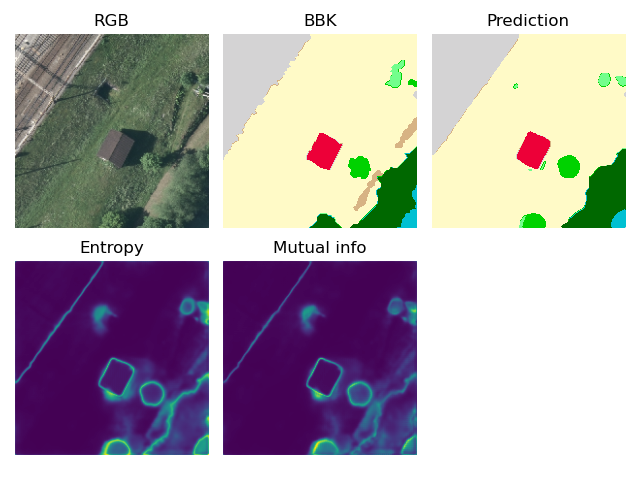
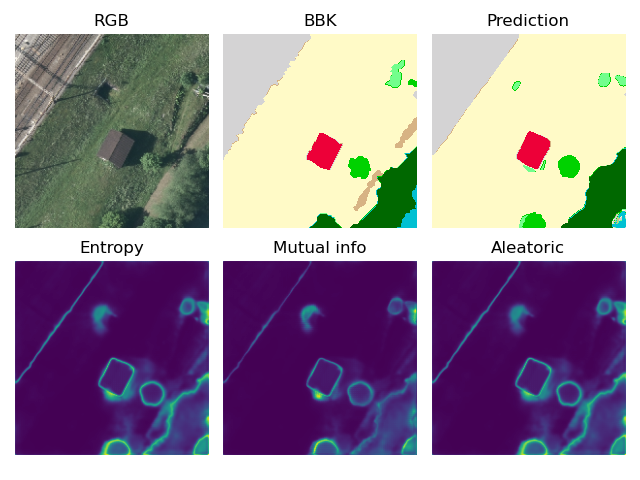
add examples images bayseian and improve scoe

diff --git a/test_bayesian.py b/test_bayesian.py
@@ -19,7 +19,7 @@ from sklearn.metrics import confusion_matrix
 def evaluate_uncertainty(net, dataloader, device, nb_forward):
     net.eval()
     enable_dropout(net)
-    num_val_batches = len(dataloader)*nb_forward
+    num_val_batches = len(dataloader)
 
     #Initialization
     dice_score = 0
@@ -39,7 +39,8 @@ def evaluate_uncertainty(net, dataloader, device, nb_forward):
         image, mask_true = batch[0], batch[1]
         # move images and labels to correct device and type
         image = image.to(device=device, dtype=torch.float32)
-        mask_true = mask_true.to(device=device, dtype=torch.float32)
+        mask_true = mask_true.to(#device=device,
+                                 dtype=torch.float32)
 
         # to store n_forward predictions on the same batch
         dropout_predictions = torch.empty((0,mask_true.size(0),mask_true.size(1),mask_true.size(2),mask_true.size(3)))
@@ -55,30 +56,8 @@ def evaluate_uncertainty(net, dataloader, device, nb_forward):
                 # compute confidence matrix
                 cf_matrix = cf_matrix + confusion_matrix(mask_true.argmax(dim=1).view(-1).cpu(),mask_pred.argmax(dim=1).view(-1).cpu(), labels = np.arange(0,9))
 
-                # convert to one-hot format
-                if net.n_classes == 1:
-                    mask_pred = (F.sigmoid(mask_pred) > 0.5).float()
-                    # compute the Dice score
-                    dice_score += metrics.dice_coeff(mask_pred, mask_true, reduce_batch_first=False)
-                else:
-                    
-                    #transform predictions to float labels for others metrics
-                    mask_pred_labels = mask_pred.argmax(dim=1) 
-                    mask_true_labels = mask_true.argmax(dim=1)
-
-                    #compute the accuracy
-                    accuracy_score += metrics.accuracy_coeff(mask_pred_labels, mask_true_labels, num_classes = net.n_classes)
-                    accuracy_per_class += metrics.multiclass_accuracy(mask_pred_labels, mask_true_labels, num_classes = net.n_classes)
-                    #compute F1 score
-                    F1_coeff_per_class += metrics.F1_score(mask_pred_labels, mask_true_labels, num_classes= net.n_classes)
-                    #compute IOU score 
-                    IOU_coeff += metrics.IOU_score(mask_pred_labels, mask_true_labels, num_classes= net.n_classes)
-                    IOU_coeff_per_class += metrics.IOU_score_per_class(mask_pred_labels, mask_true_labels, num_classes= net.n_classes)
-                
-                    #transform prediction in one-hot to compute dice score (ignoring background for dice score)
-                    mask_pred = F.one_hot(mask_pred.argmax(dim=1), net.n_classes).permute(0,3,1,2).float()
-                    # compute the Dice score per class 
-                    dice_score += metrics.multiclass_dice_coeff(mask_pred[:, 1:, ...], mask_true[:, 1:, ...], reduce_batch_first=False)
+        
+        
         #print(dropout_predictions.unique())
         # if torch.eq(dropout_predictions[-1].view(-1),dropout_predictions[-2].view(-1)).all():
         #     print("same result")
@@ -97,17 +76,31 @@ def evaluate_uncertainty(net, dataloader, device, nb_forward):
         #print(batch_pred_entropy.mean(dim=(-2,-1)).size())
         #batch_mutual_info = 
 
+        #transform predictions to float labels for others metrics
+        mask_pred = dropout_predictions[-1]
+        mask_pred_labels = mask_pred.argmax(dim=1) 
+        mask_true_labels = mask_true.argmax(dim=1)
 
+        #compute the accuracy
+        accuracy_score += metrics.accuracy_coeff(mask_pred_labels, mask_true_labels, num_classes = net.n_classes)
+        accuracy_per_class += metrics.multiclass_accuracy(mask_pred_labels, mask_true_labels, num_classes = net.n_classes)
+        #compute F1 score
+        F1_coeff_per_class += metrics.F1_score(mask_pred_labels, mask_true_labels, num_classes= net.n_classes)
+        #compute IOU score 
+        IOU_coeff += metrics.IOU_score(mask_pred_labels, mask_true_labels, num_classes= net.n_classes)
+        IOU_coeff_per_class += metrics.IOU_score_per_class(mask_pred_labels, mask_true_labels, num_classes= net.n_classes)
+
+        #transform prediction in one-hot to compute dice score (ignoring background for dice score)
+        mask_pred = F.one_hot(mask_pred.argmax(dim=1), net.n_classes).permute(0,3,1,2).float()
+        # compute the Dice score per class 
+        dice_score += metrics.multiclass_dice_coeff(mask_pred[:, 1:, ...], mask_true[:, 1:, ...], reduce_batch_first=False)
 
     cf_matrix = cf_matrix/cf_matrix.sum(axis=1,keepdims=True)
 
     net.train()
 
-    # Fixes a potential division by zero error
-    if num_val_batches == 0:
-        return dice_score, accuracy_score, accuracy_per_class
-
-    return dice_score / num_val_batches, accuracy_score/num_val_batches, accuracy_per_class/num_val_batches, F1_coeff_per_class/ num_val_batches, IOU_coeff/num_val_batches, IOU_coeff_per_class/num_val_batches,  cf_matrix
+    score_div = num_val_batches*nb_forward
+    return dice_score / score_div, accuracy_score/score_div, accuracy_per_class/score_div, F1_coeff_per_class/score_div, IOU_coeff/score_div, IOU_coeff_per_class/score_div,  cf_matrix
 
 
 def enable_dropout(model):
@@ -117,6 +110,31 @@ def enable_dropout(model):
             m.train()
             print("activated dropout")
 
+def compute_scores(mask_pred, mask_true):
+
+    #transform predictions to float labels for others metrics
+    mask_pred_labels = mask_pred.argmax(dim=1) 
+    mask_true_labels = mask_true.argmax(dim=1)
+
+    #compute the accuracy
+    accuracy_score += metrics.accuracy_coeff(mask_pred_labels, mask_true_labels, num_classes = net.n_classes)
+    accuracy_per_class += metrics.multiclass_accuracy(mask_pred_labels, mask_true_labels, num_classes = net.n_classes)
+    #compute F1 score
+    F1_coeff_per_class += metrics.F1_score(mask_pred_labels, mask_true_labels, num_classes= net.n_classes)
+    #compute IOU score 
+    IOU_coeff += metrics.IOU_score(mask_pred_labels, mask_true_labels, num_classes= net.n_classes)
+    IOU_coeff_per_class += metrics.IOU_score_per_class(mask_pred_labels, mask_true_labels, num_classes= net.n_classes)
+
+    #transform prediction in one-hot to compute dice score (ignoring background for dice score)
+    mask_pred = F.one_hot(mask_pred.argmax(dim=1), net.n_classes).permute(0,3,1,2).float()
+    # compute the Dice score per class 
+    dice_score += metrics.multiclass_dice_coeff(mask_pred[:, 1:, ...], mask_true[:, 1:, ...], reduce_batch_first=False)
+
+    
+    return []
+
+def compute_uncertainty():
+    return []
 
 if __name__ == '__main__':
 
@@ -129,7 +147,7 @@ if __name__ == '__main__':
     logging.info(f'Using device {device}')
 
     # define test set
-    test_set = BBKDataset(zone = ("goesch",), split = "test", buildings = True, vegetation = True, random_seed = 1)
+    test_set = BBKDataset(zone = ("alles",), split = "test", buildings = True, vegetation = True, random_seed = 1)
     test_dl = DataLoader(test_set, batch_size=32, shuffle=True)
 
     # declare model
@@ -147,7 +165,7 @@ if __name__ == '__main__':
     plt.xticks(rotation=45)
     plt.yticks(rotation=45)
     plt.tight_layout()
-    
+
     class_labels = {0 : "null",
                     1 : "wooded_area",
                     2 : "water",

diff --git a/example_data_bayesian.py b/example_data_bayesian.py
@@ -25,7 +25,7 @@ x = next(iter(dl))
 
 # load model
 net = BayesianUNet(n_channels=7, n_classes=9, bilinear=False).to(device=device)
-checkpoint_path = 'checkpoints_augmented/checkpoint_epoch60.pth'
+checkpoint_path = 'checkpoints_bayesian/checkpoint_epoch60.pth'
 net.load_state_dict(torch.load(checkpoint_path, map_location=device))
 net.eval()
 enable_dropout(net)
@@ -80,6 +80,7 @@ for i in dl:
 			#batch_mutual_info = torch.mean(torch.sum(dropout_predictions*dropout_predictions.log(),dim=-3), dim=0)
 			entropy = batch_pred_entropy[j].cpu().numpy()
 			mutual = batch_mutual_info[j].cpu().numpy()
+			aleatoric = entropy-mutual
 			prediction = batch_mean[j].argmax(dim=0).cpu().numpy()
 			print(np.shape(prediction))
 			print(np.shape(mutual))
@@ -119,6 +120,10 @@ for i in dl:
 			plt.imshow(mutual)
 			plt.axis('off')
 			plt.title('Mutual info')
+			plt.subplot(236)
+			plt.imshow(aleatoric)
+			plt.axis('off')
+			plt.title('Aleatoric')
 			plt.tight_layout()
 			plt.savefig(f'example_data/example_pred_bayesian{counter}.png')
 			plt.close()
